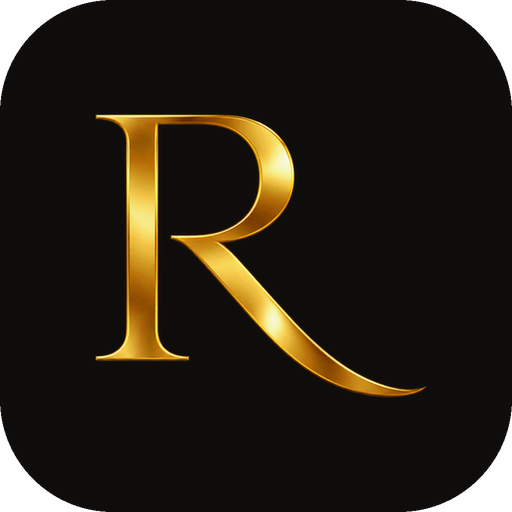
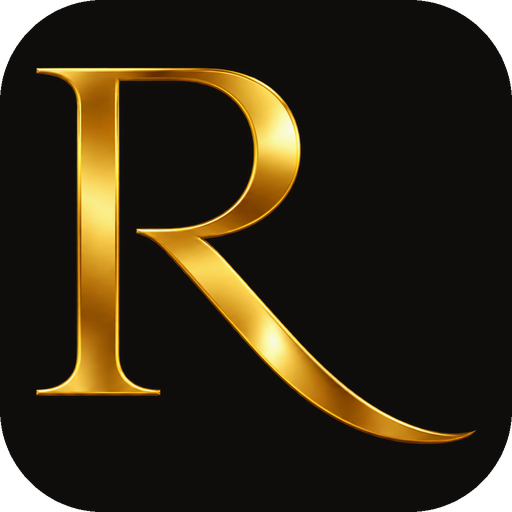
Ícone: R maior e mais legível na aba

diff --git a/quiz.html b/quiz.html
@@ -4,11 +4,11 @@
 <meta charset="UTF-8" />
 <meta name="viewport" content="width=device-width, initial-scale=1.0" />
 <title>Descubra sua mancha | Adeus Manchas</title>
-<link rel="icon" href="icone-32.png?v=3" sizes="32x32" type="image/png" />
-<link rel="icon" href="icone-16.png?v=3" sizes="16x16" type="image/png" />
-<link rel="icon" href="icone-48.png?v=3" sizes="48x48" type="image/png" />
-<link rel="icon" href="icone-512.png?v=3" sizes="512x512" type="image/png" />
-<link rel="apple-touch-icon" href="icone-180.png?v=3" />
+<link rel="icon" href="icone-32.png?v=4" sizes="32x32" type="image/png" />
+<link rel="icon" href="icone-16.png?v=4" sizes="16x16" type="image/png" />
+<link rel="icon" href="icone-48.png?v=4" sizes="48x48" type="image/png" />
+<link rel="icon" href="icone-512.png?v=4" sizes="512x512" type="image/png" />
+<link rel="apple-touch-icon" href="icone-180.png?v=4" />
 <meta name="description" content="Responda 6 perguntas rápidas e descubra o que está por trás das suas manchas, e por que elas voltam." />
 <meta property="og:title" content="Descubra qual é a sua mancha" />
 <meta property="og:description" content="Teste rápido, menos de 1 minuto. Por Dra. Rosana Vecchi." />

diff --git a/index.html b/index.html
@@ -4,11 +4,11 @@
 <meta charset="UTF-8" />
 <meta name="viewport" content="width=device-width, initial-scale=1.0" />
 <title>Adeus Manchas | Dra. Rosana Vecchi</title>
-<link rel="icon" href="icone-32.png?v=3" sizes="32x32" type="image/png" />
-<link rel="icon" href="icone-16.png?v=3" sizes="16x16" type="image/png" />
-<link rel="icon" href="icone-48.png?v=3" sizes="48x48" type="image/png" />
-<link rel="icon" href="icone-512.png?v=3" sizes="512x512" type="image/png" />
-<link rel="apple-touch-icon" href="icone-180.png?v=3" />
+<link rel="icon" href="icone-32.png?v=4" sizes="32x32" type="image/png" />
+<link rel="icon" href="icone-16.png?v=4" sizes="16x16" type="image/png" />
+<link rel="icon" href="icone-48.png?v=4" sizes="48x48" type="image/png" />
+<link rel="icon" href="icone-512.png?v=4" sizes="512x512" type="image/png" />
+<link rel="apple-touch-icon" href="icone-180.png?v=4" />
 <meta name="description" content="Assista à aula e entenda por que sua mancha volta todo verão. O protocolo de 90 dias pra clarear melasma e mancha em casa." />
 <link rel="preconnect" href="https://fonts.googleapis.com" />
 <link rel="preconnect" href="https://fonts.gstatic.com" crossorigin />

diff --git a/politica-de-privacidade.html b/politica-de-privacidade.html
@@ -4,11 +4,11 @@
 <meta charset="UTF-8" />
 <meta name="viewport" content="width=device-width, initial-scale=1.0" />
 <title>Política de Privacidade | Adeus Manchas</title>
-<link rel="icon" href="icone-32.png?v=3" sizes="32x32" type="image/png" />
-<link rel="icon" href="icone-16.png?v=3" sizes="16x16" type="image/png" />
-<link rel="icon" href="icone-48.png?v=3" sizes="48x48" type="image/png" />
-<link rel="icon" href="icone-512.png?v=3" sizes="512x512" type="image/png" />
-<link rel="apple-touch-icon" href="icone-180.png?v=3" />
+<link rel="icon" href="icone-32.png?v=4" sizes="32x32" type="image/png" />
+<link rel="icon" href="icone-16.png?v=4" sizes="16x16" type="image/png" />
+<link rel="icon" href="icone-48.png?v=4" sizes="48x48" type="image/png" />
+<link rel="icon" href="icone-512.png?v=4" sizes="512x512" type="image/png" />
+<link rel="apple-touch-icon" href="icone-180.png?v=4" />
 <style>
   :root{--bg:#0c0a09;--line:#2c2620;--gold:#c9a34c;--cream:#ece5d8;--body:#cfc6b7;--dim:#8d8477;
         --sans:-apple-system,BlinkMacSystemFont,"Segoe UI",Roboto,Helvetica,Arial,sans-serif;}

diff --git a/vendas.html b/vendas.html
@@ -4,11 +4,11 @@
 <meta charset="UTF-8" />
 <meta name="viewport" content="width=device-width, initial-scale=1.0" />
 <title>Adeus Manchas | Dra. Rosana Vecchi</title>
-<link rel="icon" href="icone-32.png?v=3" sizes="32x32" type="image/png" />
-<link rel="icon" href="icone-16.png?v=3" sizes="16x16" type="image/png" />
-<link rel="icon" href="icone-48.png?v=3" sizes="48x48" type="image/png" />
-<link rel="icon" href="icone-512.png?v=3" sizes="512x512" type="image/png" />
-<link rel="apple-touch-icon" href="icone-180.png?v=3" />
+<link rel="icon" href="icone-32.png?v=4" sizes="32x32" type="image/png" />
+<link rel="icon" href="icone-16.png?v=4" sizes="16x16" type="image/png" />
+<link rel="icon" href="icone-48.png?v=4" sizes="48x48" type="image/png" />
+<link rel="icon" href="icone-512.png?v=4" sizes="512x512" type="image/png" />
+<link rel="apple-touch-icon" href="icone-180.png?v=4" />
 <meta name="description" content="O protocolo de 90 dias pra clarear melasma e mancha em casa. Sem laser caro, sem peeling agressivo e sem voltar tudo no primeiro verão." />
 <style>
   :root{
